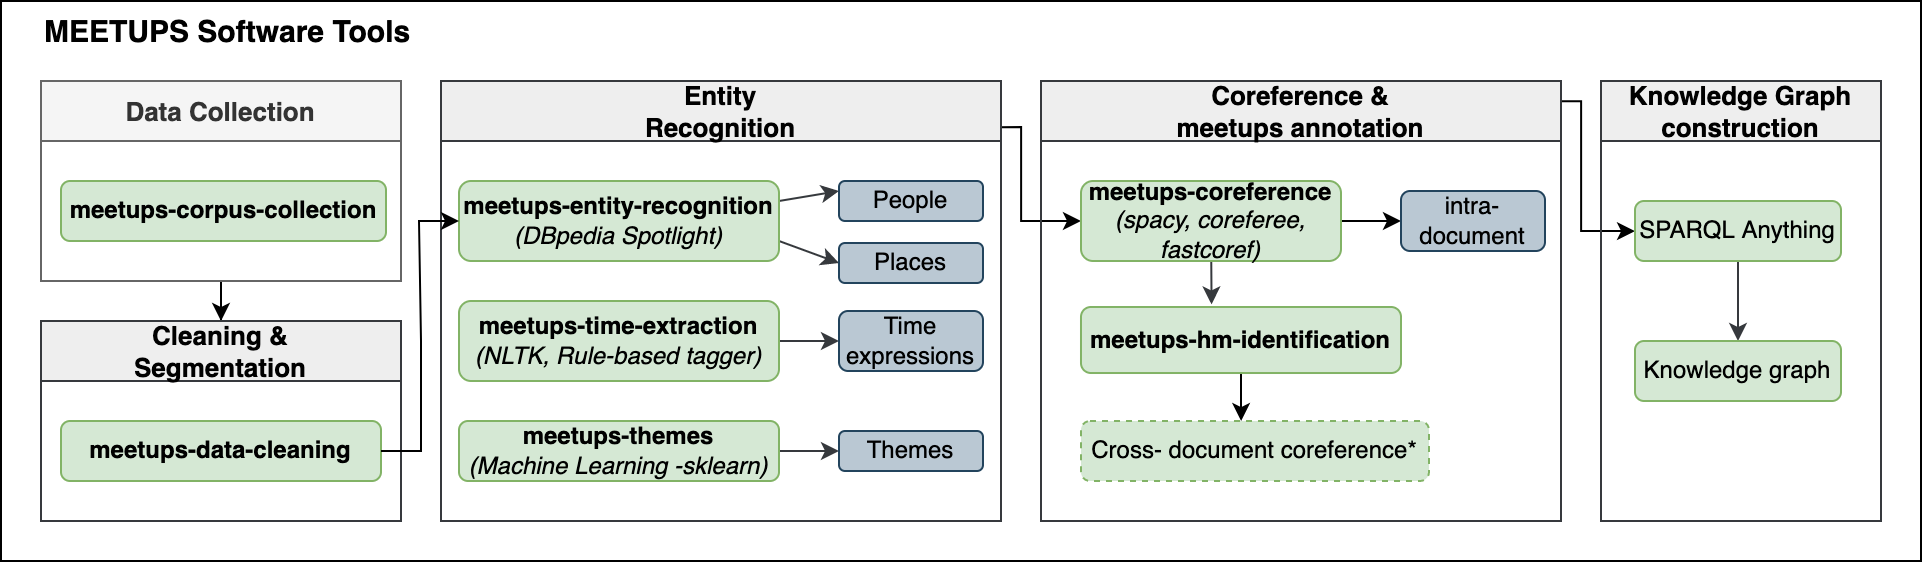
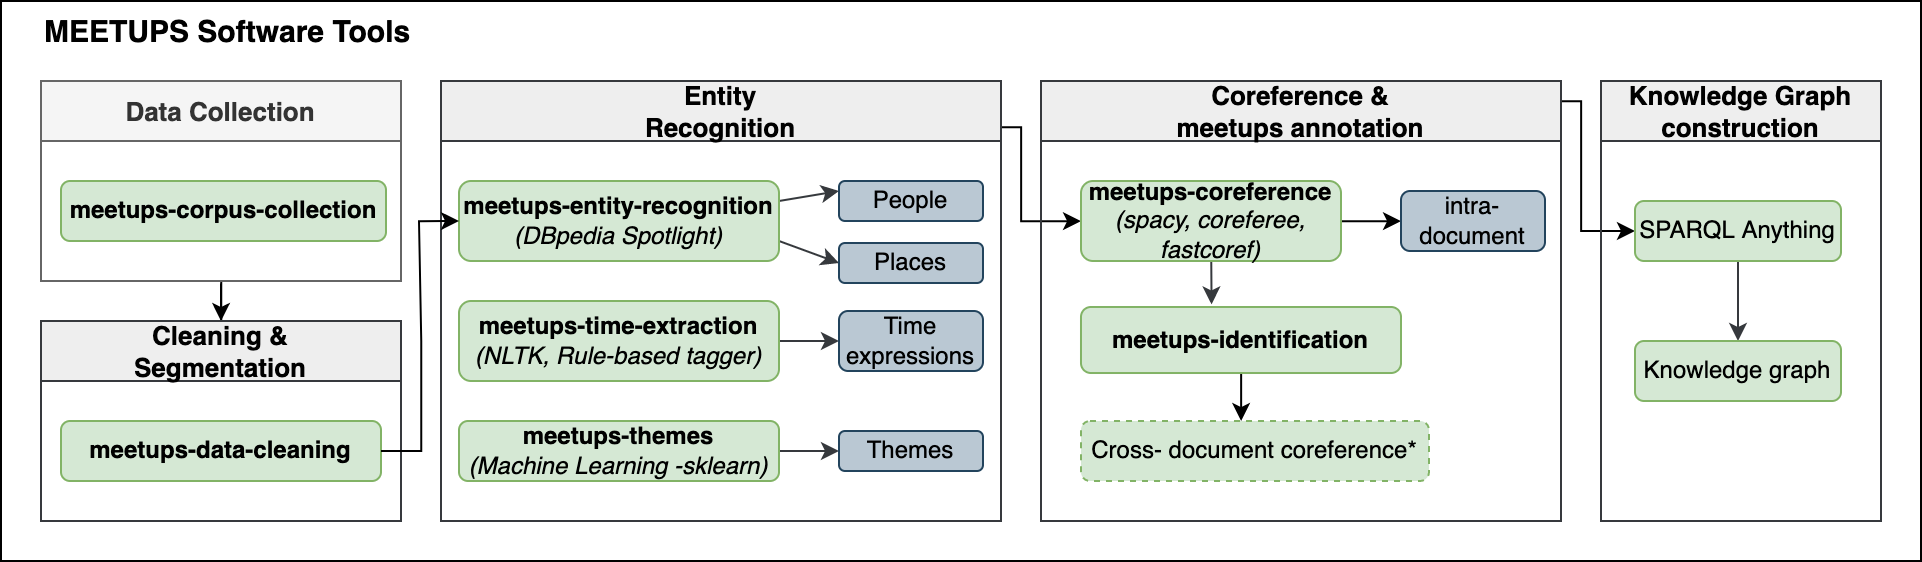
UPDATE Readme
UPDATE Readme

diff --git a/README.md b/README.md
@@ -12,7 +12,7 @@ resource: https://github.com/polifonia-project/meetups-knowledge-graph/
 release-date: 20/07/2022
 release-number: v0.1
 release link: https://github.com/polifonia-project/meetups-knowledge-graph/releases/tag/v0.1
-doi: https://zenodo.org/badge/latestdoi/588597123
+doi: 10.5281/zenodo.7924618
 changelog: https://github.com/polifonia-project/meetups-knowledge-graph/releases/tag/v0.1
 licence:
 - CC-BY_v4
@@ -28,6 +28,8 @@ related components:
 - informed-by: 
   - meetups-ontology
   - meetups-corpus-collection
+- generated-by:
+  - meetups-hm-identification
 - persona:
   - Ortenz
   - David
